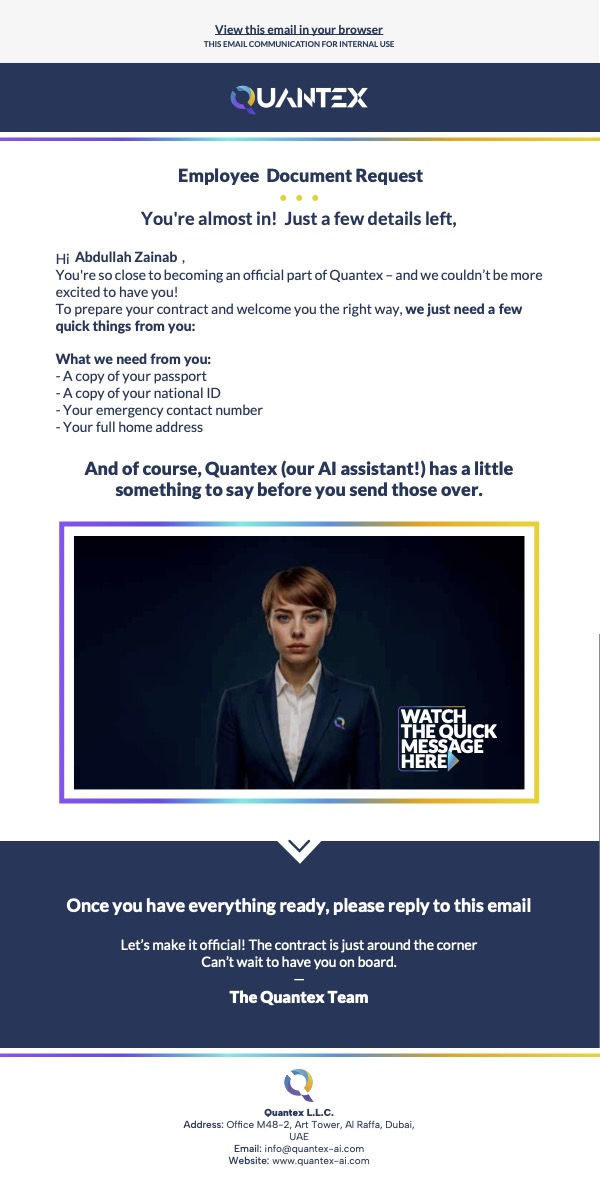
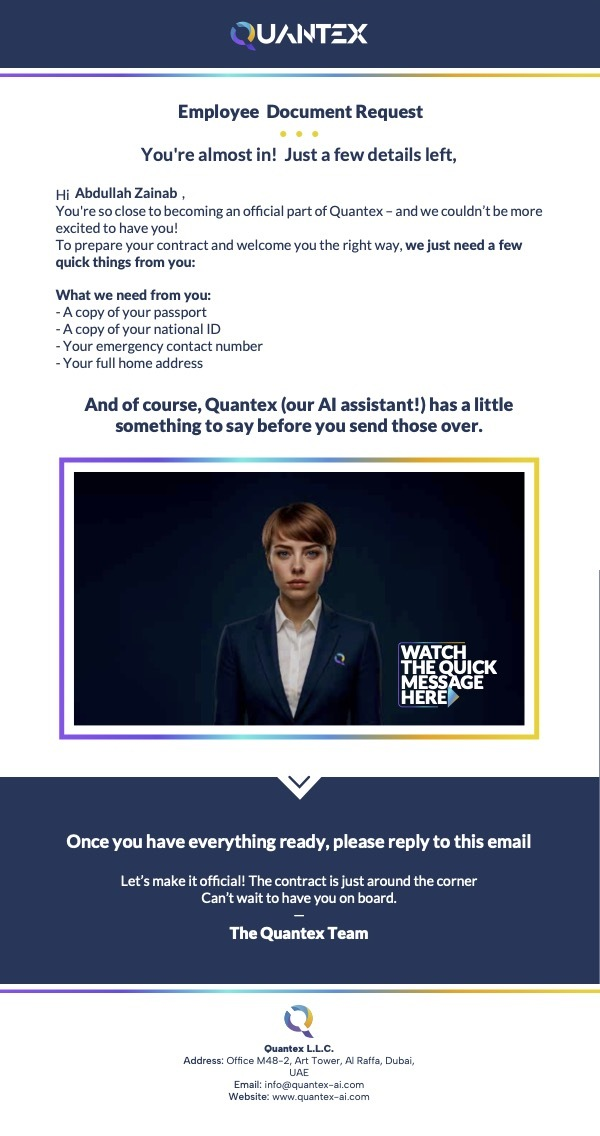
image cropped and video view size increase

diff --git a/src/components/Hero.tsx b/src/components/Hero.tsx
@@ -32,7 +32,7 @@ const Hero = () => {
         />
       </div>
       <div className="w-full max-w-6xl mx-auto flex flex-col items-center">
-        <div className="relative w-full max-w-4xl mb-8">
+        <div className="relative w-full max-w-6xl mb-8">
           <div className="p-1 bg-gradient-to-r from-purple-500 via-blue-400 to-yellow-400 rounded-xl md:rounded-3xl">
             <div className="bg-slate-900 rounded-xl md:rounded-3xl overflow-hidden relative">
               <ReactPlayer

diff --git a/src/components/Hero2.tsx b/src/components/Hero2.tsx
@@ -32,7 +32,7 @@ const Hero = () => {
         />
       </div>
       <div className="w-full max-w-6xl mx-auto flex flex-col items-center">
-        <div className="relative w-full max-w-4xl mb-8">
+        <div className="relative w-full max-w-5xl mb-8">
           <div className="p-1 bg-gradient-to-r from-purple-500 via-blue-400 to-yellow-400 rounded-xl md:rounded-3xl">
             <div className="bg-slate-900 rounded-xl md:rounded-3xl overflow-hidden relative">
               <ReactPlayer

diff --git a/src/components/Hero3.tsx b/src/components/Hero3.tsx
@@ -32,7 +32,7 @@ const Hero = () => {
         />
       </div>
       <div className="w-full max-w-6xl mx-auto flex flex-col items-center">
-        <div className="relative w-full max-w-4xl mb-8">
+        <div className="relative w-full max-w-5xl mb-8">
           <div className="p-1 bg-gradient-to-r from-purple-500 via-blue-400 to-yellow-400 rounded-xl md:rounded-3xl">
             <div className="bg-slate-900 rounded-xl md:rounded-3xl overflow-hidden relative">
               <ReactPlayer

diff --git a/src/components/Hero4.tsx b/src/components/Hero4.tsx
@@ -32,7 +32,7 @@ const Hero = () => {
         />
       </div>
       <div className="w-full max-w-6xl mx-auto flex flex-col items-center">
-        <div className="relative w-full max-w-4xl mb-8">
+        <div className="relative w-full max-w-5xl mb-8">
           <div className="p-1 bg-gradient-to-r from-purple-500 via-blue-400 to-yellow-400 rounded-xl md:rounded-3xl">
             <div className="bg-slate-900 rounded-xl md:rounded-3xl overflow-hidden relative">
               <ReactPlayer

diff --git a/src/components/Hero5.tsx b/src/components/Hero5.tsx
@@ -32,7 +32,7 @@ const Hero = () => {
         />
       </div>
       <div className="w-full max-w-6xl mx-auto flex flex-col items-center">
-        <div className="relative w-full max-w-4xl mb-8">
+        <div className="relative w-full max-w-5xl mb-8">
           <div className="p-1 bg-gradient-to-r from-purple-500 via-blue-400 to-yellow-400 rounded-xl md:rounded-3xl">
             <div className="bg-slate-900 rounded-xl md:rounded-3xl overflow-hidden relative">
               <ReactPlayer

diff --git a/src/components/Hero6.tsx b/src/components/Hero6.tsx
@@ -32,7 +32,7 @@ const Hero = () => {
         />
       </div>
       <div className="w-full max-w-6xl mx-auto flex flex-col items-center">
-        <div className="relative w-full max-w-4xl mb-8">
+        <div className="relative w-full max-w-5xl mb-8">
           <div className="p-1 bg-gradient-to-r from-purple-500 via-blue-400 to-yellow-400 rounded-xl md:rounded-3xl">
             <div className="bg-slate-900 rounded-xl md:rounded-3xl overflow-hidden relative">
               <ReactPlayer
